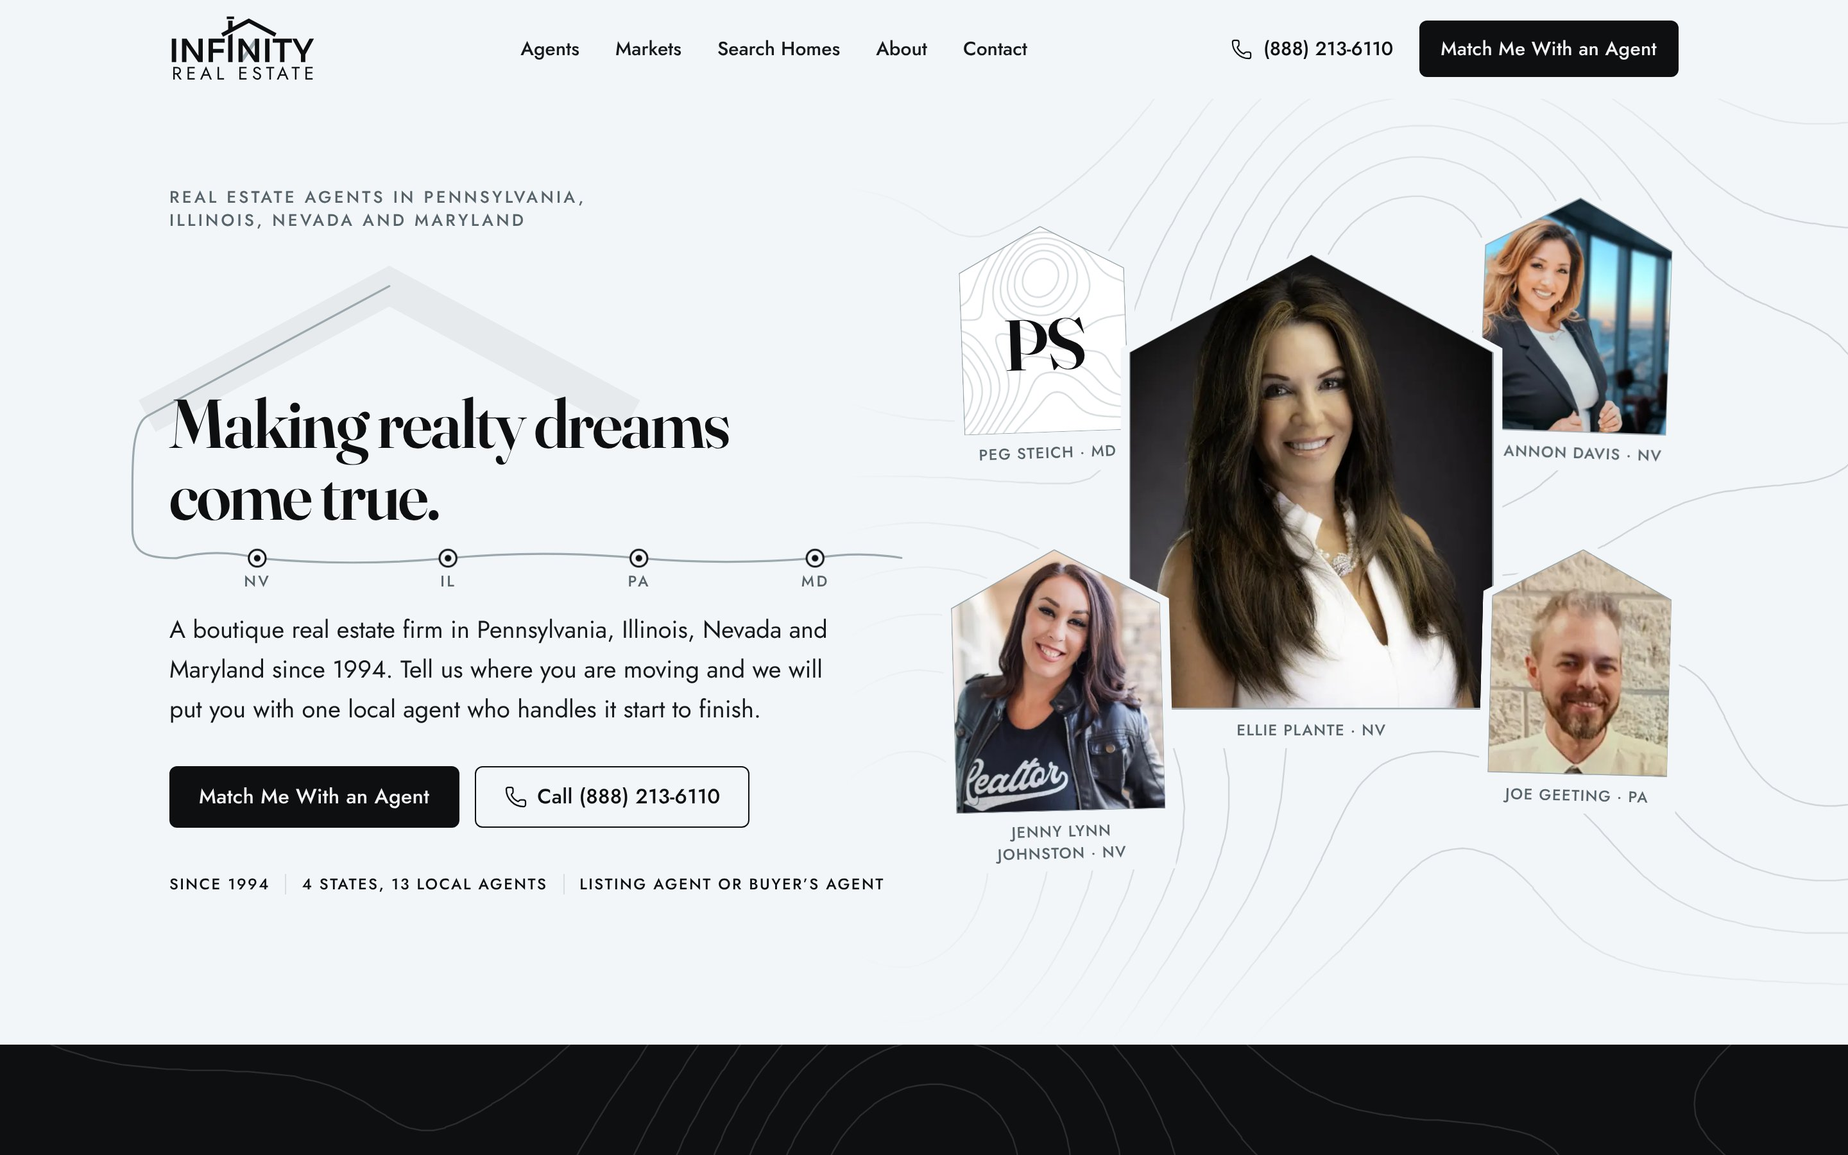
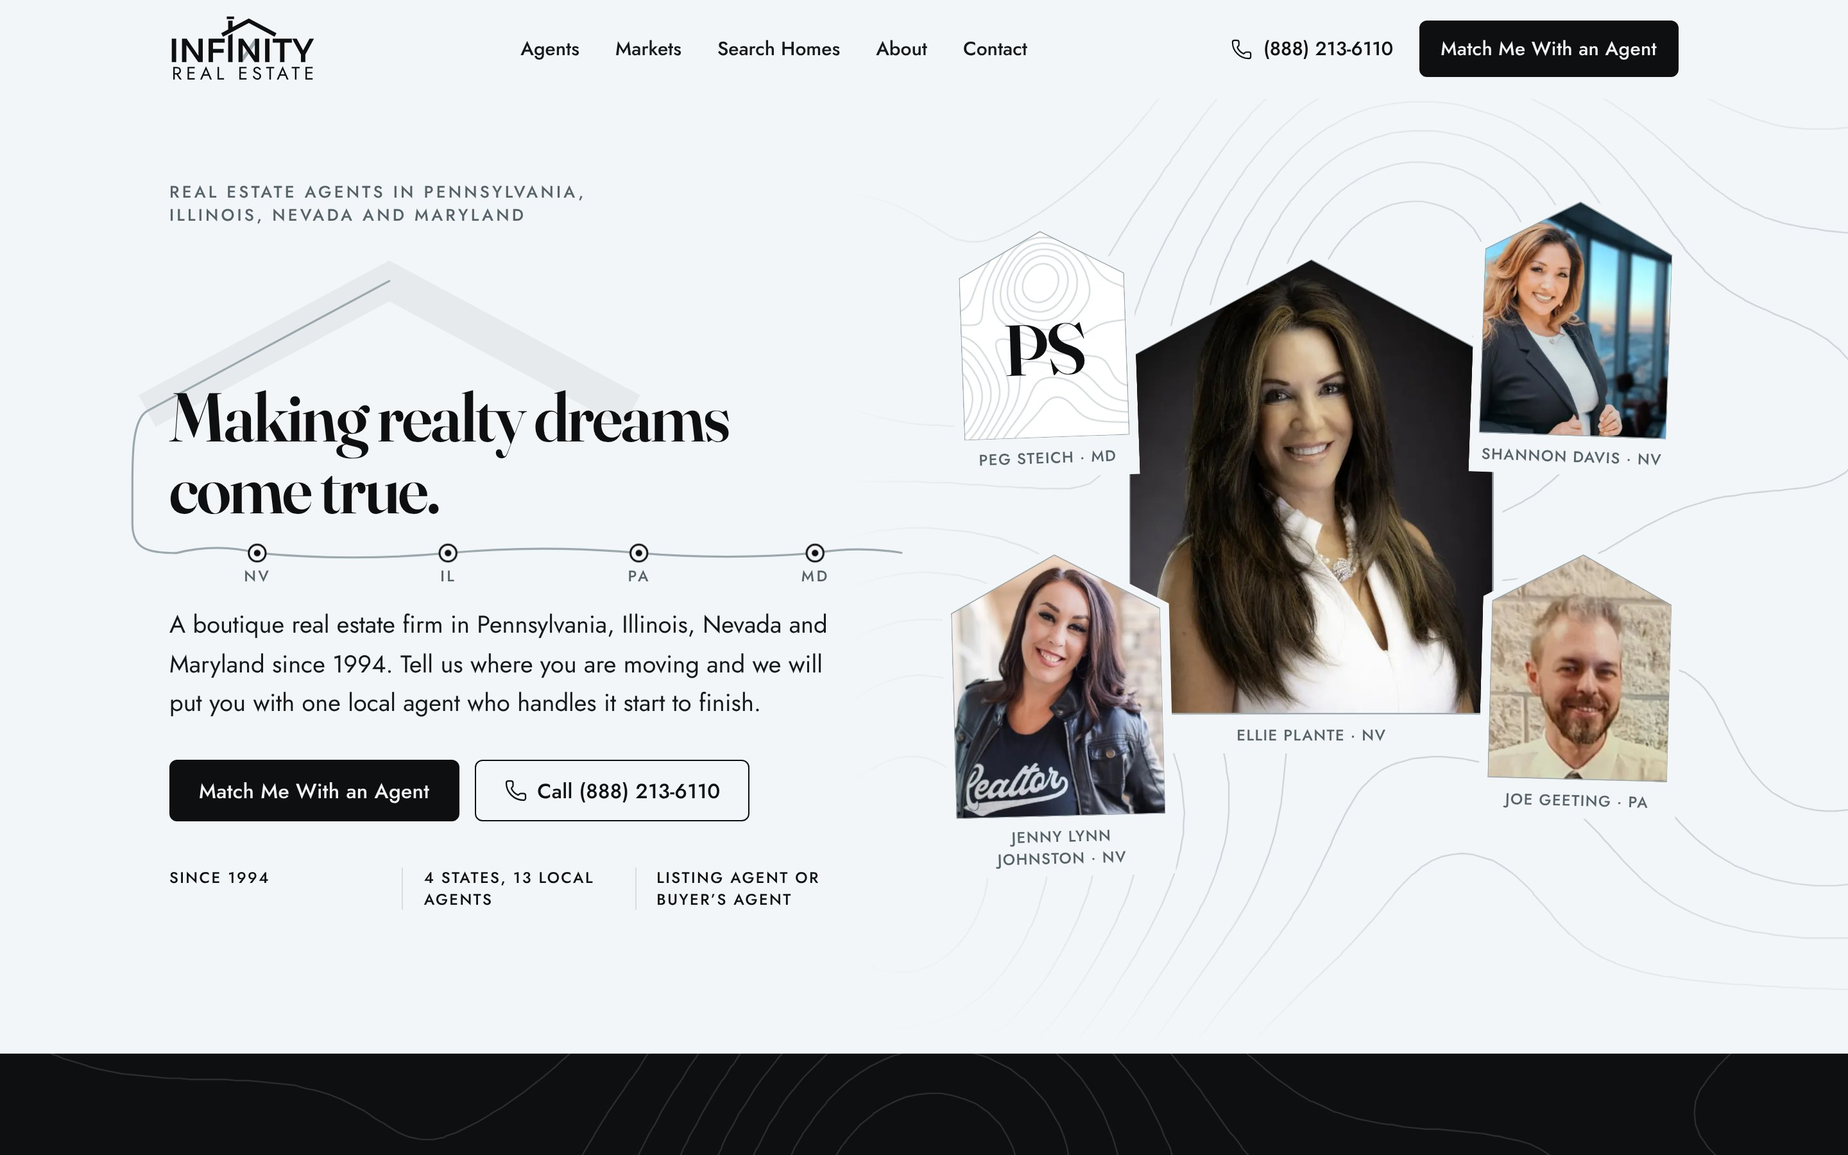
Responsive QA pass: fix tablet, small-phone and wide-desktop layout issues
- Hero: five prints fit the row on tablets; small prints layered above Ellie's so
  captions are never covered; facts row is a fixed three-cell strip; tighter phone
  spacing so the primary button clears the bottom bar on 320px screens
- Markets: equal 2x2 on tablets, unequal bento from lg; state outline moved into
  the tile header so it can never sit under text or buttons
- Move Planner: Back/Next pinned to the bottom of the modal; state tiles stack on
  very narrow phones; compact agent card on phones
- Bio drawer: compact header on phones
- Robin card, search band and sample reviews: wider layouts only where they fit
- Footer and contact tiles: phone number never breaks, email wraps cleanly
- Refresh docs/screenshots

Claude-Session: https://claude.ai/code/session_013uExWBzvZaLXckizqdLVw6

diff --git a/components/sections/Hero.tsx b/components/sections/Hero.tsx
@@ -12,44 +12,47 @@ const CLUSTER = [
     caption: "Ellie Plante · NV",
     // never above native size: 01 is 1792px wide
     desk: "lg:absolute lg:left-[24%] lg:top-[9%] lg:z-20 lg:w-[52%]",
-    mob: "w-[188px]",
+    mob: "w-[188px] md:w-[168px]",
     sizes: "(min-width: 1024px) 340px, 188px",
     preload: true,
   },
   {
     slug: "shannon-davis",
     caption: "Shannon Davis · NV",
-    desk: "lg:absolute lg:left-[72%] lg:top-[1%] lg:z-10 lg:w-[28%] lg:rotate-[2deg]",
-    mob: "w-[150px]",
+    desk: "lg:absolute lg:left-[72%] lg:top-[1%] lg:z-30 lg:w-[28%] lg:rotate-[2deg]",
+    mob: "w-[150px] md:w-[128px]",
     sizes: "(min-width: 1024px) 190px, 150px",
   },
   {
     slug: "jenny-lynn-johnston",
     caption: "Jenny Lynn Johnston · NV",
     desk: "lg:absolute lg:left-[0%] lg:top-[50%] lg:z-30 lg:w-[31%] lg:-rotate-[1.5deg]",
-    mob: "w-[150px]",
+    mob: "w-[150px] md:w-[128px]",
     sizes: "(min-width: 1024px) 210px, 150px",
   },
   {
     slug: "joe-geeting",
     caption: "Joe Geeting · PA",
     desk: "lg:absolute lg:left-[73%] lg:top-[50%] lg:z-30 lg:w-[27%] lg:rotate-[1.5deg]",
-    mob: "w-[132px]",
+    mob: "w-[132px] md:w-[128px]",
     sizes: "(min-width: 1024px) 170px, 132px",
   },
   {
     slug: "peg-steich",
     caption: "Peg Steich · MD",
-    desk: "lg:absolute lg:left-[1%] lg:top-[5%] lg:z-10 lg:w-[25%] lg:-rotate-[2deg]",
-    mob: "w-[132px]",
+    desk: "lg:absolute lg:left-[1%] lg:top-[5%] lg:z-30 lg:w-[25%] lg:-rotate-[2deg]",
+    mob: "w-[132px] md:w-[128px]",
     sizes: "132px",
   },
 ] as const;
 
+// DRAFT: recount the agents once the roster is confirmed
+const FACTS = ["Since 1994", `4 states, ${AGENT_COUNT} local agents`, "Listing agent or buyer\u2019s agent"];
+
 export function Hero() {
   return (
     <section aria-labelledby="hero-title" className="relative overflow-hidden">
-      <div className="wrap grid grid-cols-1 items-center gap-10 pt-6 pb-16 lg:grid-cols-12 lg:gap-8 lg:pt-16 lg:pb-28">
+      <div className="wrap grid grid-cols-1 items-center gap-10 pt-3 pb-16 sm:pt-6 lg:grid-cols-12 lg:gap-8 lg:pt-16 lg:pb-28">
         {/* Type */}
         <div className="hero-head relative z-10 min-w-0 lg:col-span-6">
           <h1 id="hero-title" className="font-semibold">
@@ -66,12 +69,12 @@ export function Hero() {
             </span>
           </h1>
 
-          <p className="mt-4 max-w-[46ch] text-[1.0625rem] leading-relaxed text-text sm:mt-2 md:text-[1.1875rem]">
+          <p className="mt-3 max-w-[46ch] text-[1rem] leading-relaxed text-text sm:mt-2 sm:text-[1.0625rem] md:text-[1.1875rem]">
             A boutique real estate firm in Pennsylvania, Illinois, Nevada and Maryland since 1994. Tell us where you are
             moving and we will put you with one local agent who handles it start to finish.
           </p>
 
-          <div className="mt-7 flex flex-wrap items-center gap-3">
+          <div className="mt-5 flex flex-wrap items-center gap-3 sm:mt-7">
             <MatchButton className="btn btn-ink w-full sm:w-auto" prefill={{ source: "hero" }} />
             <a href={business.phone.tel} className="btn btn-ghost hidden sm:inline-flex">
               <Phone aria-hidden="true" size={18} strokeWidth={1.5} />
@@ -79,11 +82,12 @@ export function Hero() {
             </a>
           </div>
 
-          <ul className="label mt-9 hidden flex-wrap items-center gap-y-2 text-[0.75rem] tracking-[0.1em] text-ink sm:flex">
-            <li className="pr-3">Since 1994</li>
-            {/* DRAFT: recount once the roster is confirmed */}
-            <li className="border-l border-rule px-3">4 states, {AGENT_COUNT} local agents</li>
-            <li className="border-l border-rule pl-3">Listing agent or buyer&rsquo;s agent</li>
+          <ul className="label mt-9 hidden max-w-[34rem] grid-cols-3 text-[0.75rem] leading-snug tracking-[0.1em] text-ink sm:grid">
+            {FACTS.map((f, i) => (
+              <li key={f} className={i === 0 ? "pr-4" : "border-l border-rule px-4"}>
+                {f}
+              </li>
+            ))}
           </ul>
         </div>
 
@@ -92,7 +96,7 @@ export function Hero() {
           <div className="contour-bg pointer-events-none absolute inset-y-[-20%] right-[-40%] left-[-14%] hidden [mask-image:linear-gradient(to_right,transparent,black_30%),linear-gradient(to_bottom,transparent,black_20%,black_80%,transparent)] [mask-composite:intersect] lg:block" aria-hidden="true" />
           <ul
             aria-label="Some of the Infinity agents"
-            className="no-scrollbar -mr-4 flex snap-x gap-3 overflow-x-auto pr-4 pb-2 lg:relative lg:mr-0 lg:block lg:aspect-[1/0.98] lg:overflow-visible lg:pr-0"
+            className="no-scrollbar -mr-4 flex snap-x gap-3 overflow-x-auto pr-4 pb-2 md:mr-0 md:justify-between md:overflow-visible md:pr-0 lg:relative lg:mr-0 lg:block lg:aspect-[1/0.98] lg:overflow-visible lg:pr-0"
           >
             {CLUSTER.map((c) => {
               const a = agentBySlug(c.slug)!;
@@ -110,10 +114,13 @@ export function Hero() {
               );
             })}
           </ul>
-          <ul className="label mt-6 flex flex-wrap gap-x-4 gap-y-2 text-[0.75rem] text-ink sm:hidden">
-            <li>Since 1994</li>
-            <li className="border-l border-rule pl-4">4 states, {AGENT_COUNT} agents</li>
-            <li>Listing agent or buyer&rsquo;s agent</li>
+          <ul className="label mt-6 flex flex-wrap gap-x-5 gap-y-2 text-[0.75rem] text-ink sm:hidden">
+            {FACTS.map((f) => (
+              <li key={f} className="flex items-center gap-2">
+                <span aria-hidden="true" className="h-1.5 w-1.5 rotate-45 border border-ink" />
+                {f}
+              </li>
+            ))}
           </ul>
         </div>
       </div>

diff --git a/components/sections/Markets.tsx b/components/sections/Markets.tsx
@@ -6,10 +6,11 @@ import { agentsInState } from "@/lib/agents";
 import { markets, type Market } from "@/lib/markets";
 
 const LAYOUT: Record<Market["code"], { tile: string; outline: string }> = {
-  NV: { tile: "md:col-span-7 md:min-h-[440px]", outline: "md:h-64 md:w-64" },
-  PA: { tile: "md:col-span-5 md:min-h-[440px]", outline: "md:h-44 md:w-44" },
-  IL: { tile: "md:col-span-5", outline: "md:h-44 md:w-44" },
-  MD: { tile: "md:col-span-7", outline: "md:h-44 md:w-44" },
+  // Equal 2x2 on tablets; the unequal bento (Nevada largest) from lg up.
+  NV: { tile: "md:col-span-6 lg:col-span-7 lg:min-h-[420px]", outline: "lg:h-32 lg:w-32" },
+  PA: { tile: "md:col-span-6 lg:col-span-5 lg:min-h-[420px]", outline: "lg:h-24 lg:w-24" },
+  IL: { tile: "md:col-span-6 lg:col-span-5", outline: "lg:h-24 lg:w-24" },
+  MD: { tile: "md:col-span-6 lg:col-span-7", outline: "lg:h-24 lg:w-24" },
 };
 
 // Bento order: Nevada (largest, five agents) first, then PA, IL, MD.
@@ -40,18 +41,21 @@ export function Markets() {
             const peg = m.code === "MD" ? team[0] : null;
             return (
               <li key={m.code} id={m.slug} className={`sheet relative flex scroll-mt-28 flex-col overflow-hidden p-6 md:p-8 ${LAYOUT[m.code].tile}`}>
-                <StateOutline
-                  slug={m.slug}
-                  contour
-                  className={`pointer-events-none absolute top-5 right-4 h-20 w-20 opacity-90 md:top-auto md:-right-4 md:-bottom-4 ${LAYOUT[m.code].outline}`}
-                />
-                <div className="relative max-w-[30rem] pr-20 md:pr-0">
-                  <h3 className="text-[2rem] md:text-[2.5rem]">
+                {/* Outline sits in the header row, so it can never run under the text or buttons. */}
+                <div className="flex items-start justify-between gap-4">
+                  <h3 className="min-w-0 text-[1.875rem] lg:text-[2.5rem]">
                     {m.name}
                     <span className="label mt-2 block font-sans text-[0.75rem] font-medium tracking-[0.12em] text-muted">
                       {m.phrase}
                     </span>
                   </h3>
+                  <StateOutline
+                    slug={m.slug}
+                    contour
+                    className={`pointer-events-none h-16 w-16 shrink-0 opacity-90 ${LAYOUT[m.code].outline}`}
+                  />
+                </div>
+                <div className="max-w-[36rem]">
                   <p className="mt-4 text-text">{intro(m)}</p>
                   {peg && (
                     <p className="mt-2 text-text">

diff --git a/components/sections/Footer.tsx b/components/sections/Footer.tsx
@@ -8,8 +8,8 @@ import { markets } from "@/lib/markets";
 export function Footer() {
   return (
     <footer className="border-t border-rule bg-plat pb-24 md:pb-0">
-      <div className="wrap grid gap-12 py-16 md:grid-cols-12 md:py-20">
-        <div className="md:col-span-4">
+      <div className="wrap grid gap-12 py-16 md:grid-cols-2 md:py-20 lg:grid-cols-12">
+        <div className="lg:col-span-4">
           <Link href="/" aria-label="Infinity Real Estate, home" className="inline-block text-ink">
             <InfinityMark title={null} className="h-16 w-auto" />
           </Link>
@@ -17,11 +17,11 @@ export function Footer() {
           <p className="mt-2 text-muted">{business.displayName}. Since 1994.</p>
         </div>
 
-        <div className="md:col-span-4">
+        <div className="lg:col-span-4">
           <p className="label text-muted">Call or text the main line</p>
           <a
             href={business.phone.tel}
-            className="font-display mt-2 block text-[2.25rem] leading-tight font-semibold text-ink hover:underline md:text-[2.5rem]"
+            className="font-display mt-2 block text-[2.25rem] leading-tight font-semibold whitespace-nowrap text-ink hover:underline md:text-[2.5rem]"
           >
             {business.phone.display}
           </a>
@@ -29,7 +29,7 @@ export function Footer() {
             <a href={business.phone.sms} className="inline-flex min-h-11 items-center font-medium text-ink underline underline-offset-4">
               Text {business.phone.display}
             </a>
-            <a href={`mailto:${business.email}`} className="inline-flex min-h-11 items-center break-all font-medium text-ink underline underline-offset-4">
+            <a href={`mailto:${business.email}`} className="inline-flex min-h-11 items-center font-medium [overflow-wrap:anywhere] text-ink underline underline-offset-4">
               {business.email}
             </a>
           </p>
@@ -43,7 +43,7 @@ export function Footer() {
           </ul>
         </div>
 
-        <div className="md:col-span-4">
+        <div className="lg:col-span-4">
           <p className="label text-muted">Quick links</p>
           <ul className="mt-2 grid grid-cols-2 gap-x-4">
             {nav.map((n) => (

diff --git a/components/MovePlanner/Steps.tsx b/components/MovePlanner/Steps.tsx
@@ -98,7 +98,7 @@ export function StepWhere({
     <div className="space-y-5">
       <fieldset>
         <legend className="sr-only">State</legend>
-        <div className="grid grid-cols-2 gap-2.5">
+        <div className="grid grid-cols-1 gap-2.5 min-[360px]:grid-cols-2">
           {WEST_TO_EAST.map((c) => {
             const mk = marketByCode(c);
             return (
@@ -108,7 +108,7 @@ export function StepWhere({
               </Choice>
             );
           })}
-          <Choice name={`${id}-state`} checked={state === "other"} onChange={() => onState("other")} className="col-span-2">
+          <Choice name={`${id}-state`} checked={state === "other"} onChange={() => onState("other")} className="min-[360px]:col-span-2">
             Somewhere else
           </Choice>
         </div>
@@ -208,11 +208,11 @@ export function StepAgent({
           <p className="mt-1 text-muted">We will pass your request to the best person in your state.</p>
         </div>
       ) : (
-        <div className="sheet grid grid-cols-[96px_1fr] items-center gap-5 p-4">
+        <div className="sheet grid grid-cols-[72px_1fr] items-center gap-4 p-4 sm:grid-cols-[96px_1fr] sm:gap-5">
           <RooflineFrame agent={agent} sizes="96px" monogramSize="sm" />
           <div>
             <p className="label text-[0.75rem] text-muted">Your agent</p>
-            <p className="font-display text-[1.5rem] leading-tight font-semibold text-ink">{agent.name}</p>
+            <p className="font-display text-[1.25rem] leading-tight font-semibold text-ink sm:text-[1.5rem]">{agent.name}</p>
             <p className="mt-0.5 text-[0.9375rem] text-muted">
               {[agent.title, agent.experience !== "Not listed" ? agent.experience : null].filter(Boolean).join(" · ")}
             </p>

diff --git a/components/MovePlanner/PlannerFlow.tsx b/components/MovePlanner/PlannerFlow.tsx
@@ -14,7 +14,18 @@ const cap = (t: string) => t.charAt(0).toUpperCase() + t.slice(1);
 
 const TITLES = ["What are you planning?", "Where?", "When?", "Your agent.", "Your info."];
 
-export function PlannerFlow({ prefill = {}, headingId, onClose }: { prefill?: Prefill; headingId: string; onClose?: () => void }) {
+export function PlannerFlow({
+  prefill = {},
+  headingId,
+  onClose,
+  stickyNav = false,
+}: {
+  prefill?: Prefill;
+  headingId: string;
+  onClose?: () => void;
+  /** In the modal, keep Back and Next pinned to the bottom of the scroll area */
+  stickyNav?: boolean;
+}) {
   const uid = useId();
   const [a, setA] = useState<PlannerAnswers>({
     plan: prefill.plan,
@@ -235,7 +246,11 @@ export function PlannerFlow({ prefill = {}, headingId, onClose }: { prefill?: Pr
         </div>
       </div>
 
-      <div className="mt-8 flex items-center justify-between gap-3 border-t border-rule pt-5">
+      <div
+        className={`mt-8 flex items-center justify-between gap-3 border-t border-rule pt-5 ${
+          stickyNav ? "sticky -bottom-5 z-10 -mx-5 bg-paper px-5 pb-5 sm:-bottom-7 sm:-mx-7 sm:px-7 sm:pb-7" : ""
+        }`}
+      >
         {step > 0 ? (
           <button type="button" onClick={() => go(step - 1)} className="btn btn-ghost !min-h-12">
             <ArrowLeft aria-hidden="true" size={18} strokeWidth={1.5} />

diff --git a/components/sections/AgentMatchSection.tsx b/components/sections/AgentMatchSection.tsx
@@ -21,7 +21,7 @@ export function AgentMatchSection() {
         {/* DRAFT: confirm Robin is happy to be featured as a referral partner */}
         <aside
           aria-labelledby="coast-title"
-          className="sheet mt-16 grid grid-cols-[96px_1fr] items-center gap-5 p-5 md:grid-cols-[120px_1fr_auto] md:gap-8 md:p-7"
+          className="sheet mt-16 grid grid-cols-[96px_1fr] items-center gap-5 p-5 md:grid-cols-[120px_1fr] md:gap-8 md:p-7 lg:grid-cols-[120px_1fr_auto]"
         >
           <RooflineFrame
             photo={{ src: referral.photo, w: referral.photoW, h: referral.photoH, alt: referral.alt, position: "45% 20%" }}
@@ -37,7 +37,7 @@ export function AgentMatchSection() {
               oceanfront condos and beach homes in Myrtle Beach, SC.
             </p>
           </div>
-          <a href={referral.tel} className="btn btn-ghost col-span-2 md:col-span-1">
+          <a href={referral.tel} className="btn btn-ghost col-span-2 md:col-span-1 md:col-start-2 md:justify-self-start lg:col-start-auto">
             <Phone aria-hidden="true" size={18} strokeWidth={1.5} />
             Call Robin {referral.phoneDisplay}
           </a>

diff --git a/components/sections/ContactPage.tsx b/components/sections/ContactPage.tsx
@@ -36,7 +36,13 @@ export function ContactPage() {
                 <a href={t.href} className="sheet group flex h-full flex-col p-6 transition-colors hover:border-ink">
                   <t.icon aria-hidden="true" size={22} strokeWidth={1.5} className="text-ink" />
                   <span className="label mt-4 text-muted">{t.label}</span>
-                  <span className="font-display mt-1 text-[1.5rem] leading-tight font-semibold break-all text-ink md:text-[1.625rem]">
+                  <span
+                    className={`mt-1 leading-tight font-semibold text-ink ${
+                      t.label === "Email"
+                        ? "text-[1.0625rem] [overflow-wrap:anywhere] lg:text-[1.1875rem]"
+                        : "font-display text-[1.375rem] whitespace-nowrap lg:text-[1.625rem]"
+                    }`}
+                  >
                     {t.value}
                   </span>
                   <span className="mt-2 text-[0.9375rem] text-muted">{t.note}</span>

diff --git a/components/sections/SearchBand.tsx b/components/sections/SearchBand.tsx
@@ -11,14 +11,14 @@ const LINKS = [
 export function SearchBand() {
   return (
     <section id="search" aria-labelledby="search-title" className="scroll-mt-20 border-y border-rule bg-plat py-14 md:py-16">
-      <div className="wrap grid items-center gap-8 lg:grid-cols-12">
-        <div className="lg:col-span-4">
+      <div className="wrap grid items-center gap-8 xl:grid-cols-12">
+        <div className="xl:col-span-4">
           <h2 id="search-title" className="text-[2rem] md:text-[2.5rem]">
             Search live MLS listings.
           </h2>
           <p className="mt-2 text-muted">Live search runs on Infinity&rsquo;s existing MLS feed.</p>
         </div>
-        <ul className="grid gap-3 sm:grid-cols-3 lg:col-span-8">
+        <ul className="grid gap-3 md:grid-cols-3 xl:col-span-8">
           {LINKS.map((l) => (
             <li key={l.href + l.label}>
               <a

diff --git a/components/sections/Reviews.tsx b/components/sections/Reviews.tsx
@@ -23,9 +23,9 @@ export function Reviews() {
         <h2 id="reviews-title" className="mt-3 text-[2.5rem] md:text-[3.5rem]">
           What clients say.
         </h2>
-        <ul className="mt-12 grid gap-8 md:grid-cols-3 md:gap-6">
+        <ul className="mt-12 grid max-w-2xl gap-8 lg:max-w-none lg:grid-cols-3 lg:gap-6">
           {SAMPLES.map((s, i) => (
-            <li key={i} className={`sheet flex flex-col p-6 md:p-7 ${i === 1 ? "md:mt-10" : ""}`}>
+            <li key={i} className={`sheet flex flex-col p-6 md:p-7 ${i === 1 ? "lg:mt-10" : ""}`}>
               <p className="label inline-block self-start rounded-[4px] border border-dashed border-muted px-2 py-1 text-[0.75rem] tracking-[0.08em] text-muted">
                 Sample review: replace with real Google or Zillow reviews
               </p>

diff --git a/components/Team/AgentDrawer.tsx b/components/Team/AgentDrawer.tsx
@@ -41,10 +41,10 @@ export function AgentDrawer({ agent, onClose }: { agent: Agent; onClose: () => v
         </div>
 
         <div className="flex-1 overflow-y-auto overscroll-contain px-5 py-6 md:px-8">
-          <div className="grid grid-cols-[120px_1fr] items-end gap-5">
+          <div className="grid grid-cols-[88px_1fr] items-end gap-4 sm:grid-cols-[120px_1fr] sm:gap-5">
             <RooflineFrame agent={agent} sizes="120px" monogramSize="sm" />
             <div>
-              <h2 id={titleId} className="text-[1.875rem] leading-tight">
+              <h2 id={titleId} className="text-[1.5rem] leading-tight sm:text-[1.875rem]">
                 {agent.name}
               </h2>
               {agent.slug === "sylwia-baker" && <p className="text-muted">Pronounced Sylvia</p>}

diff --git a/components/AgentMatch/AgentMatch.tsx b/components/AgentMatch/AgentMatch.tsx
@@ -78,7 +78,7 @@ export function AgentMatch() {
     <div className="grid gap-10 lg:grid-cols-12 lg:gap-12">
       <form className="space-y-8 self-start lg:sticky lg:top-28 lg:col-span-5" onSubmit={(e) => e.preventDefault()} aria-label="Agent Match">
         <Step n={1} legend="Where?">
-          <div className="grid grid-cols-2 gap-2.5">
+          <div className="grid grid-cols-1 gap-2.5 min-[360px]:grid-cols-2">
             {WEST_TO_EAST.map((code) => {
               const mk = marketByCode(code);
               const on = state === code;

diff --git a/components/MovePlanner/MovePlanner.tsx b/components/MovePlanner/MovePlanner.tsx
@@ -27,7 +27,7 @@ export function MovePlanner({ prefill, onClose }: { prefill: Prefill; onClose: (
           </button>
         </div>
         <div className="flex-1 overflow-y-auto overscroll-contain px-5 pt-5 pb-[max(1.25rem,env(safe-area-inset-bottom))] sm:px-7 sm:pt-6 sm:pb-7">
-          <PlannerFlow prefill={prefill} headingId="planner-title" onClose={onClose} />
+          <PlannerFlow prefill={prefill} headingId="planner-title" onClose={onClose} stickyNav />
         </div>
       </div>
     </div>
